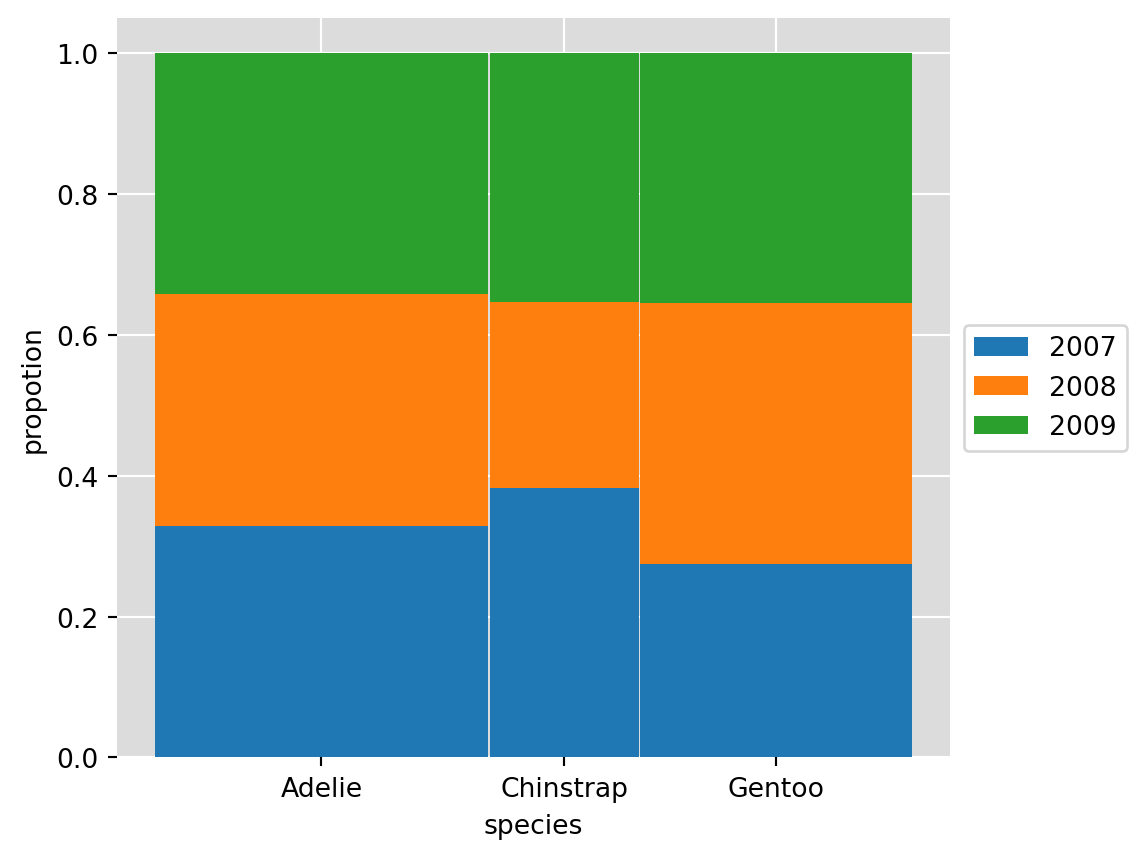
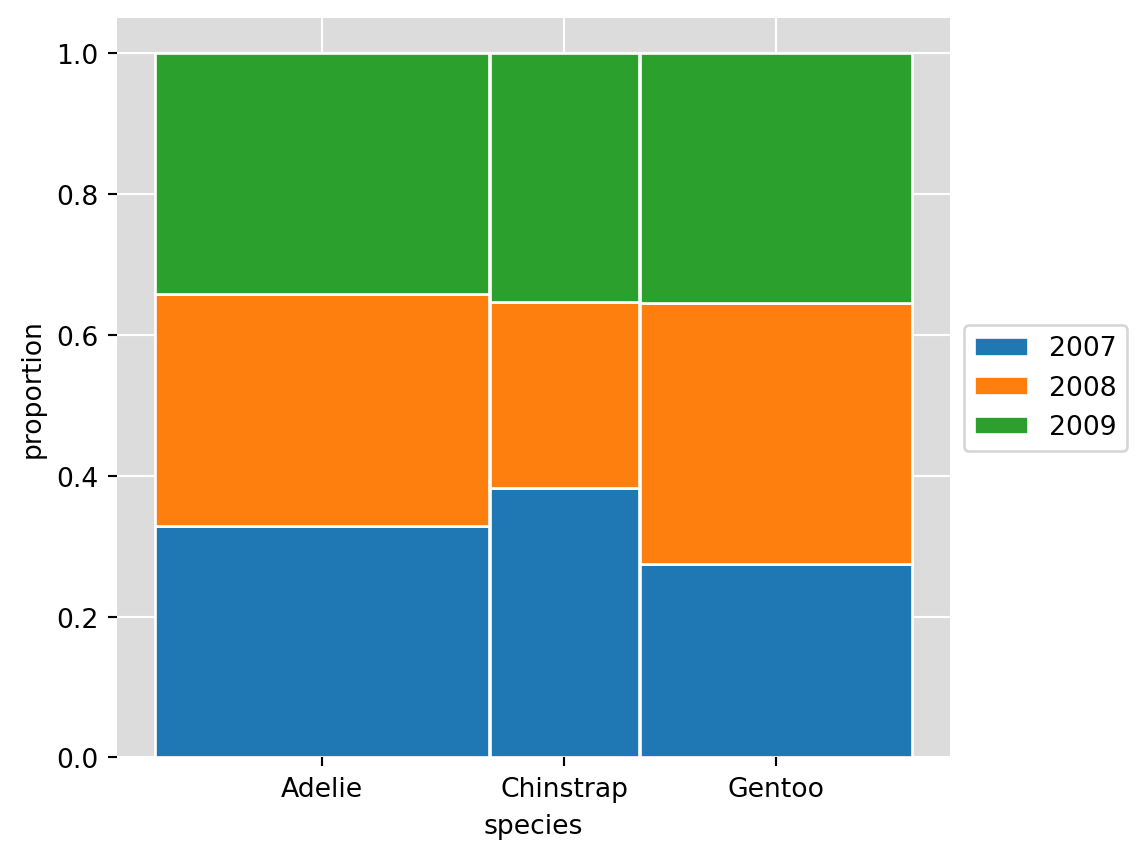
Built site for gh-pages

diff --git a/guide_to_matplotlib.html b/guide_to_matplotlib.html
@@ -163,7 +163,7 @@ code span.wa { color: #60a0b0; font-weight: bold; font-style: italic; } /* Warni
 <div class="cell" data-execution_count="3">
 <div class="sourceCode cell-code" id="cb3"><pre class="sourceCode python code-with-copy"><code class="sourceCode python"><span id="cb3-1"><a href="#cb3-1" aria-hidden="true" tabindex="-1"></a>penguins <span class="op">=</span> load_penguins()</span>
 <span id="cb3-2"><a href="#cb3-2" aria-hidden="true" tabindex="-1"></a>penguins.head()</span></code><button title="Copy to Clipboard" class="code-copy-button"><i class="bi"></i></button></pre></div>
-<div class="cell-output cell-output-display" data-execution_count="23">
+<div class="cell-output cell-output-display" data-execution_count="39">
 
 <div>
 
@@ -245,8 +245,10 @@ code span.wa { color: #60a0b0; font-weight: bold; font-style: italic; } /* Warni
 </section>
 <section id="visualizations" class="level2">
 <h2 class="anchored" data-anchor-id="visualizations">Visualizations</h2>
-<section id="barchart" class="level3">
-<h3 class="anchored" data-anchor-id="barchart">Barchart</h3>
+<section id="categorical-variables" class="level3">
+<h3 class="anchored" data-anchor-id="categorical-variables">Categorical Variables</h3>
+<section id="barchart" class="level4">
+<h4 class="anchored" data-anchor-id="barchart">Barchart</h4>
 <div class="cell" data-execution_count="4">
 <div class="sourceCode cell-code" id="cb4"><pre class="sourceCode python code-with-copy"><code class="sourceCode python"><span id="cb4-1"><a href="#cb4-1" aria-hidden="true" tabindex="-1"></a>count_by_species <span class="op">=</span> penguins.groupby(<span class="st">"species"</span>).size()</span>
 <span id="cb4-2"><a href="#cb4-2" aria-hidden="true" tabindex="-1"></a></span>
@@ -274,8 +276,8 @@ code span.wa { color: #60a0b0; font-weight: bold; font-style: italic; } /* Warni
 </div>
 </div>
 </section>
-<section id="side-by-side-barchart" class="level3">
-<h3 class="anchored" data-anchor-id="side-by-side-barchart">Side-by-Side Barchart</h3>
+<section id="side-by-side-barchart" class="level4">
+<h4 class="anchored" data-anchor-id="side-by-side-barchart">Side-by-Side Barchart</h4>
 <div class="cell" data-execution_count="6">
 <div class="sourceCode cell-code" id="cb6"><pre class="sourceCode python code-with-copy"><code class="sourceCode python"><span id="cb6-1"><a href="#cb6-1" aria-hidden="true" tabindex="-1"></a>count_by_species_and_year <span class="op">=</span> penguins.groupby([<span class="st">"species"</span>, <span class="st">"year"</span>]).size()</span>
 <span id="cb6-2"><a href="#cb6-2" aria-hidden="true" tabindex="-1"></a>count_by_species_and_year <span class="op">=</span> count_by_species_and_year.reset_index()</span>
@@ -304,8 +306,8 @@ code span.wa { color: #60a0b0; font-weight: bold; font-style: italic; } /* Warni
 </div>
 </div>
 </section>
-<section id="stacked-barchart" class="level3">
-<h3 class="anchored" data-anchor-id="stacked-barchart">Stacked Barchart</h3>
+<section id="stacked-barchart" class="level4">
+<h4 class="anchored" data-anchor-id="stacked-barchart">Stacked Barchart</h4>
 <div class="cell" data-execution_count="7">
 <div class="sourceCode cell-code" id="cb7"><pre class="sourceCode python code-with-copy"><code class="sourceCode python"><span id="cb7-1"><a href="#cb7-1" aria-hidden="true" tabindex="-1"></a>width <span class="op">=</span> <span class="fl">0.5</span></span>
 <span id="cb7-2"><a href="#cb7-2" aria-hidden="true" tabindex="-1"></a></span>
@@ -331,8 +333,8 @@ code span.wa { color: #60a0b0; font-weight: bold; font-style: italic; } /* Warni
 </div>
 </div>
 </section>
-<section id="mosaic-plot" class="level3">
-<h3 class="anchored" data-anchor-id="mosaic-plot">Mosaic Plot</h3>
+<section id="mosaic-plot" class="level4">
+<h4 class="anchored" data-anchor-id="mosaic-plot">Mosaic Plot</h4>
 <div class="cell" data-execution_count="8">
 <div class="sourceCode cell-code" id="cb8"><pre class="sourceCode python code-with-copy"><code class="sourceCode python"><span id="cb8-1"><a href="#cb8-1" aria-hidden="true" tabindex="-1"></a>tot_by_grp <span class="op">=</span> count_by_species_and_year.groupby([<span class="st">"species"</span>])[<span class="st">"value"</span>].<span class="bu">sum</span>().reset_index()</span>
 <span id="cb8-2"><a href="#cb8-2" aria-hidden="true" tabindex="-1"></a>tot_by_grp.rename(columns <span class="op">=</span> {<span class="st">"value"</span>:<span class="st">"tot"</span>}, inplace <span class="op">=</span> <span class="va">True</span>)</span>
@@ -342,32 +344,95 @@ code span.wa { color: #60a0b0; font-weight: bold; font-style: italic; } /* Warni
 <span id="cb8-6"><a href="#cb8-6" aria-hidden="true" tabindex="-1"></a>totals <span class="op">=</span> count_by_species_and_year[<span class="st">"tot"</span>].unique()</span>
 <span id="cb8-7"><a href="#cb8-7" aria-hidden="true" tabindex="-1"></a>scaled_totals <span class="op">=</span> totals <span class="op">/</span> totals.<span class="bu">min</span>()</span>
 <span id="cb8-8"><a href="#cb8-8" aria-hidden="true" tabindex="-1"></a></span>
-<span id="cb8-9"><a href="#cb8-9" aria-hidden="true" tabindex="-1"></a>width <span class="op">=</span> scaled_totals <span class="op">/</span> <span class="dv">2</span></span>
+<span id="cb8-9"><a href="#cb8-9" aria-hidden="true" tabindex="-1"></a>width <span class="op">=</span> scaled_totals</span>
 <span id="cb8-10"><a href="#cb8-10" aria-hidden="true" tabindex="-1"></a>fig, ax <span class="op">=</span> plt.subplots()</span>
 <span id="cb8-11"><a href="#cb8-11" aria-hidden="true" tabindex="-1"></a>bottom <span class="op">=</span> np.zeros(<span class="dv">3</span>)</span>
-<span id="cb8-12"><a href="#cb8-12" aria-hidden="true" tabindex="-1"></a></span>
-<span id="cb8-13"><a href="#cb8-13" aria-hidden="true" tabindex="-1"></a>species_loc <span class="op">=</span> [<span class="dv">0</span>, (width[<span class="dv">0</span>]<span class="op">/</span><span class="dv">2</span> <span class="op">+</span> width[<span class="dv">1</span>]<span class="op">/</span><span class="dv">2</span>) <span class="op">+</span> <span class="fl">.005</span>, (width[<span class="dv">0</span>]<span class="op">/</span><span class="dv">2</span> <span class="op">+</span> width[<span class="dv">1</span>] <span class="op">+</span> width[<span class="dv">2</span>]<span class="op">/</span><span class="dv">2</span>) <span class="op">+</span> <span class="fl">.01</span>]</span>
-<span id="cb8-14"><a href="#cb8-14" aria-hidden="true" tabindex="-1"></a></span>
-<span id="cb8-15"><a href="#cb8-15" aria-hidden="true" tabindex="-1"></a><span class="cf">for</span> yr <span class="kw">in</span> count_by_species_and_year[<span class="st">"year"</span>].unique():</span>
-<span id="cb8-16"><a href="#cb8-16" aria-hidden="true" tabindex="-1"></a>    tmp <span class="op">=</span> count_by_species_and_year[count_by_species_and_year[<span class="st">"year"</span>] <span class="op">==</span> yr]</span>
-<span id="cb8-17"><a href="#cb8-17" aria-hidden="true" tabindex="-1"></a>    prop <span class="op">=</span> np.array(tmp[<span class="st">"prop"</span>])</span>
-<span id="cb8-18"><a href="#cb8-18" aria-hidden="true" tabindex="-1"></a>    p <span class="op">=</span> ax.bar(species_loc, prop, width, label<span class="op">=</span>yr, bottom<span class="op">=</span>bottom)</span>
-<span id="cb8-19"><a href="#cb8-19" aria-hidden="true" tabindex="-1"></a>    bottom <span class="op">+=</span> np.array(tmp[<span class="st">"prop"</span>])</span>
-<span id="cb8-20"><a href="#cb8-20" aria-hidden="true" tabindex="-1"></a>    </span>
-<span id="cb8-21"><a href="#cb8-21" aria-hidden="true" tabindex="-1"></a>ax.set_ylabel(<span class="st">'propotion'</span>)</span>
-<span id="cb8-22"><a href="#cb8-22" aria-hidden="true" tabindex="-1"></a>ax.set_xlabel(<span class="st">'species'</span>)</span>
-<span id="cb8-23"><a href="#cb8-23" aria-hidden="true" tabindex="-1"></a></span>
-<span id="cb8-24"><a href="#cb8-24" aria-hidden="true" tabindex="-1"></a>box <span class="op">=</span> ax.get_position()</span>
-<span id="cb8-25"><a href="#cb8-25" aria-hidden="true" tabindex="-1"></a>ax.set_position([box.x0, box.y0, box.width <span class="op">*</span> <span class="fl">0.8</span>, box.height])</span>
-<span id="cb8-26"><a href="#cb8-26" aria-hidden="true" tabindex="-1"></a></span>
-<span id="cb8-27"><a href="#cb8-27" aria-hidden="true" tabindex="-1"></a>ax.set_xticks(ticks <span class="op">=</span> species_loc, labels <span class="op">=</span> count_by_species_and_year[<span class="st">"species"</span>].unique())</span>
-<span id="cb8-28"><a href="#cb8-28" aria-hidden="true" tabindex="-1"></a>ax.legend(ncol <span class="op">=</span> <span class="dv">1</span>, loc <span class="op">=</span> <span class="st">"center left"</span>, bbox_to_anchor<span class="op">=</span>(<span class="dv">1</span>, <span class="fl">0.5</span>))</span>
-<span id="cb8-29"><a href="#cb8-29" aria-hidden="true" tabindex="-1"></a></span>
-<span id="cb8-30"><a href="#cb8-30" aria-hidden="true" tabindex="-1"></a>ggplot2_defaults()</span></code><button title="Copy to Clipboard" class="code-copy-button"><i class="bi"></i></button></pre></div>
+<span id="cb8-12"><a href="#cb8-12" aria-hidden="true" tabindex="-1"></a>species_loc <span class="op">=</span> [<span class="dv">0</span>, (width[<span class="dv">0</span>]<span class="op">/</span><span class="dv">2</span> <span class="op">+</span> width[<span class="dv">1</span>]<span class="op">/</span><span class="dv">2</span>) <span class="op">+</span> <span class="fl">.005</span>, (width[<span class="dv">0</span>]<span class="op">/</span><span class="dv">2</span> <span class="op">+</span> width[<span class="dv">1</span>] <span class="op">+</span> <span class="fl">.005</span> <span class="op">+</span> width[<span class="dv">2</span>]<span class="op">/</span><span class="dv">2</span>) <span class="op">+</span> <span class="fl">.005</span>]</span>
+<span id="cb8-13"><a href="#cb8-13" aria-hidden="true" tabindex="-1"></a></span>
+<span id="cb8-14"><a href="#cb8-14" aria-hidden="true" tabindex="-1"></a><span class="cf">for</span> yr <span class="kw">in</span> count_by_species_and_year[<span class="st">"year"</span>].unique():</span>
+<span id="cb8-15"><a href="#cb8-15" aria-hidden="true" tabindex="-1"></a>    tmp <span class="op">=</span> count_by_species_and_year[count_by_species_and_year[<span class="st">"year"</span>] <span class="op">==</span> yr]</span>
+<span id="cb8-16"><a href="#cb8-16" aria-hidden="true" tabindex="-1"></a>    prop <span class="op">=</span> np.array(tmp[<span class="st">"prop"</span>])</span>
+<span id="cb8-17"><a href="#cb8-17" aria-hidden="true" tabindex="-1"></a>    p <span class="op">=</span> ax.bar(species_loc, prop, width, label<span class="op">=</span>yr, bottom<span class="op">=</span>bottom, edgecolor <span class="op">=</span> <span class="st">"white"</span>)</span>
+<span id="cb8-18"><a href="#cb8-18" aria-hidden="true" tabindex="-1"></a>    bottom <span class="op">+=</span> np.array(tmp[<span class="st">"prop"</span>])</span>
+<span id="cb8-19"><a href="#cb8-19" aria-hidden="true" tabindex="-1"></a>    </span>
+<span id="cb8-20"><a href="#cb8-20" aria-hidden="true" tabindex="-1"></a>ax.set_ylabel(<span class="st">'proportion'</span>)</span>
+<span id="cb8-21"><a href="#cb8-21" aria-hidden="true" tabindex="-1"></a>ax.set_xlabel(<span class="st">'species'</span>)</span>
+<span id="cb8-22"><a href="#cb8-22" aria-hidden="true" tabindex="-1"></a></span>
+<span id="cb8-23"><a href="#cb8-23" aria-hidden="true" tabindex="-1"></a>box <span class="op">=</span> ax.get_position()</span>
+<span id="cb8-24"><a href="#cb8-24" aria-hidden="true" tabindex="-1"></a>ax.set_position([box.x0, box.y0, box.width <span class="op">*</span> <span class="fl">0.8</span>, box.height])</span>
+<span id="cb8-25"><a href="#cb8-25" aria-hidden="true" tabindex="-1"></a></span>
+<span id="cb8-26"><a href="#cb8-26" aria-hidden="true" tabindex="-1"></a>ax.set_xticks(ticks <span class="op">=</span> species_loc, labels <span class="op">=</span> count_by_species_and_year[<span class="st">"species"</span>].unique())</span>
+<span id="cb8-27"><a href="#cb8-27" aria-hidden="true" tabindex="-1"></a>ax.legend(ncol <span class="op">=</span> <span class="dv">1</span>, loc <span class="op">=</span> <span class="st">"center left"</span>, bbox_to_anchor<span class="op">=</span>(<span class="dv">1</span>, <span class="fl">0.5</span>))</span>
+<span id="cb8-28"><a href="#cb8-28" aria-hidden="true" tabindex="-1"></a></span>
+<span id="cb8-29"><a href="#cb8-29" aria-hidden="true" tabindex="-1"></a>ggplot2_defaults()</span></code><button title="Copy to Clipboard" class="code-copy-button"><i class="bi"></i></button></pre></div>
 <div class="cell-output cell-output-display">
 <p><img src="guide_to_matplotlib_files/figure-html/cell-9-output-1.png" width="573" height="429"></p>
 </div>
 </div>
+</section>
+<section id="piecharts" class="level4">
+<h4 class="anchored" data-anchor-id="piecharts">Piecharts</h4>
+<div class="cell" data-execution_count="9">
+<div class="sourceCode cell-code" id="cb9"><pre class="sourceCode python code-with-copy"><code class="sourceCode python"><span id="cb9-1"><a href="#cb9-1" aria-hidden="true" tabindex="-1"></a>fig, ax <span class="op">=</span> plt.subplots()</span>
+<span id="cb9-2"><a href="#cb9-2" aria-hidden="true" tabindex="-1"></a>ax.pie(x <span class="op">=</span> count_by_species.values, labels <span class="op">=</span> count_by_species.index, startangle <span class="op">=</span> <span class="dv">90</span>)<span class="op">;</span></span></code><button title="Copy to Clipboard" class="code-copy-button"><i class="bi"></i></button></pre></div>
+<div class="cell-output cell-output-display">
+<p><img src="guide_to_matplotlib_files/figure-html/cell-10-output-1.png" width="405" height="389"></p>
+</div>
+</div>
+</section>
+</section>
+<section id="numerical-variables" class="level3">
+<h3 class="anchored" data-anchor-id="numerical-variables">Numerical Variables</h3>
+<section id="histograms" class="level4">
+<h4 class="anchored" data-anchor-id="histograms">Histograms</h4>
+<div class="cell" data-execution_count="10">
+<div class="sourceCode cell-code" id="cb10"><pre class="sourceCode python code-with-copy"><code class="sourceCode python"><span id="cb10-1"><a href="#cb10-1" aria-hidden="true" tabindex="-1"></a>fig, ax <span class="op">=</span> plt.subplots()</span>
+<span id="cb10-2"><a href="#cb10-2" aria-hidden="true" tabindex="-1"></a>ax.hist(penguins[<span class="st">"bill_length_mm"</span>], edgecolor <span class="op">=</span> <span class="st">"white"</span>, color <span class="op">=</span> <span class="st">"#cc4778"</span>)<span class="op">;</span></span>
+<span id="cb10-3"><a href="#cb10-3" aria-hidden="true" tabindex="-1"></a></span>
+<span id="cb10-4"><a href="#cb10-4" aria-hidden="true" tabindex="-1"></a>ax.set_ylabel(<span class="st">'count'</span>)</span>
+<span id="cb10-5"><a href="#cb10-5" aria-hidden="true" tabindex="-1"></a>ax.set_xlabel(<span class="st">'bill length (mm)'</span>)</span>
+<span id="cb10-6"><a href="#cb10-6" aria-hidden="true" tabindex="-1"></a></span>
+<span id="cb10-7"><a href="#cb10-7" aria-hidden="true" tabindex="-1"></a>ggplot2_defaults()</span></code><button title="Copy to Clipboard" class="code-copy-button"><i class="bi"></i></button></pre></div>
+<div class="cell-output cell-output-display">
+<p><img src="guide_to_matplotlib_files/figure-html/cell-11-output-1.png" width="585" height="429"></p>
+</div>
+</div>
+</section>
+<section id="boxplots" class="level4">
+<h4 class="anchored" data-anchor-id="boxplots">Boxplots</h4>
+<div class="cell" data-execution_count="11">
+<div class="sourceCode cell-code" id="cb11"><pre class="sourceCode python code-with-copy"><code class="sourceCode python"><span id="cb11-1"><a href="#cb11-1" aria-hidden="true" tabindex="-1"></a>fig, ax <span class="op">=</span> plt.subplots()</span>
+<span id="cb11-2"><a href="#cb11-2" aria-hidden="true" tabindex="-1"></a></span>
+<span id="cb11-3"><a href="#cb11-3" aria-hidden="true" tabindex="-1"></a>ax.boxplot(penguins[<span class="st">"bill_length_mm"</span>].dropna(),</span>
+<span id="cb11-4"><a href="#cb11-4" aria-hidden="true" tabindex="-1"></a>    patch_artist <span class="op">=</span> <span class="va">True</span>,</span>
+<span id="cb11-5"><a href="#cb11-5" aria-hidden="true" tabindex="-1"></a>    medianprops <span class="op">=</span> {<span class="st">"color"</span>: <span class="st">"black"</span>},</span>
+<span id="cb11-6"><a href="#cb11-6" aria-hidden="true" tabindex="-1"></a>    boxprops <span class="op">=</span> {<span class="st">"facecolor"</span>: <span class="st">"white"</span>})</span>
+<span id="cb11-7"><a href="#cb11-7" aria-hidden="true" tabindex="-1"></a>plt.xticks([])<span class="op">;</span></span>
+<span id="cb11-8"><a href="#cb11-8" aria-hidden="true" tabindex="-1"></a>ggplot2_defaults()</span></code><button title="Copy to Clipboard" class="code-copy-button"><i class="bi"></i></button></pre></div>
+<div class="cell-output cell-output-display">
+<p><img src="guide_to_matplotlib_files/figure-html/cell-12-output-1.png" width="566" height="389"></p>
+</div>
+</div>
+</section>
+<section id="boxplot-with-points" class="level4">
+<h4 class="anchored" data-anchor-id="boxplot-with-points">Boxplot with points</h4>
+<div class="cell" data-execution_count="12">
+<div class="sourceCode cell-code" id="cb12"><pre class="sourceCode python code-with-copy"><code class="sourceCode python"><span id="cb12-1"><a href="#cb12-1" aria-hidden="true" tabindex="-1"></a>fig, ax <span class="op">=</span> plt.subplots()</span>
+<span id="cb12-2"><a href="#cb12-2" aria-hidden="true" tabindex="-1"></a>n <span class="op">=</span> <span class="bu">len</span>(penguins[<span class="st">"bill_length_mm"</span>].dropna())</span>
+<span id="cb12-3"><a href="#cb12-3" aria-hidden="true" tabindex="-1"></a></span>
+<span id="cb12-4"><a href="#cb12-4" aria-hidden="true" tabindex="-1"></a>ax.boxplot(penguins[<span class="st">"bill_length_mm"</span>].dropna(),</span>
+<span id="cb12-5"><a href="#cb12-5" aria-hidden="true" tabindex="-1"></a>    patch_artist <span class="op">=</span> <span class="va">True</span>,</span>
+<span id="cb12-6"><a href="#cb12-6" aria-hidden="true" tabindex="-1"></a>    medianprops <span class="op">=</span> {<span class="st">"color"</span>: <span class="st">"black"</span>},</span>
+<span id="cb12-7"><a href="#cb12-7" aria-hidden="true" tabindex="-1"></a>    boxprops <span class="op">=</span> {<span class="st">"fill"</span>: <span class="va">None</span>})</span>
+<span id="cb12-8"><a href="#cb12-8" aria-hidden="true" tabindex="-1"></a>ax.scatter(y <span class="op">=</span> penguins[<span class="st">"bill_length_mm"</span>].dropna(), x <span class="op">=</span> [<span class="dv">1</span>] <span class="op">*</span> n <span class="op">+</span> np.random.normal(size <span class="op">=</span> n, scale <span class="op">=</span> <span class="dv">1</span><span class="op">/</span><span class="dv">100</span>), color <span class="op">=</span> <span class="st">"black"</span>, alpha <span class="op">=</span> <span class="dv">1</span><span class="op">/</span><span class="dv">4</span>)</span>
+<span id="cb12-9"><a href="#cb12-9" aria-hidden="true" tabindex="-1"></a></span>
+<span id="cb12-10"><a href="#cb12-10" aria-hidden="true" tabindex="-1"></a>plt.xticks([])<span class="op">;</span></span>
+<span id="cb12-11"><a href="#cb12-11" aria-hidden="true" tabindex="-1"></a>ggplot2_defaults()</span></code><button title="Copy to Clipboard" class="code-copy-button"><i class="bi"></i></button></pre></div>
+<div class="cell-output cell-output-display">
+<p><img src="guide_to_matplotlib_files/figure-html/cell-13-output-1.png" width="566" height="389"></p>
+</div>
+</div>
+</section>
 </section>
 </section>
 

diff --git a/index.html b/index.html
@@ -163,7 +163,7 @@ code span.wa { color: #60a0b0; font-weight: bold; font-style: italic; } /* Warni
 <div class="cell" data-execution_count="3">
 <div class="sourceCode cell-code" id="cb3"><pre class="sourceCode python code-with-copy"><code class="sourceCode python"><span id="cb3-1"><a href="#cb3-1" aria-hidden="true" tabindex="-1"></a>penguins <span class="op">=</span> load_penguins()</span>
 <span id="cb3-2"><a href="#cb3-2" aria-hidden="true" tabindex="-1"></a>penguins.head()</span></code><button title="Copy to Clipboard" class="code-copy-button"><i class="bi"></i></button></pre></div>
-<div class="cell-output cell-output-display" data-execution_count="23">
+<div class="cell-output cell-output-display" data-execution_count="39">
 
 <div>
 
@@ -245,8 +245,10 @@ code span.wa { color: #60a0b0; font-weight: bold; font-style: italic; } /* Warni
 </section>
 <section id="visualizations" class="level2">
 <h2 class="anchored" data-anchor-id="visualizations">Visualizations</h2>
-<section id="barchart" class="level3">
-<h3 class="anchored" data-anchor-id="barchart">Barchart</h3>
+<section id="categorical-variables" class="level3">
+<h3 class="anchored" data-anchor-id="categorical-variables">Categorical Variables</h3>
+<section id="barchart" class="level4">
+<h4 class="anchored" data-anchor-id="barchart">Barchart</h4>
 <div class="cell" data-execution_count="4">
 <div class="sourceCode cell-code" id="cb4"><pre class="sourceCode python code-with-copy"><code class="sourceCode python"><span id="cb4-1"><a href="#cb4-1" aria-hidden="true" tabindex="-1"></a>count_by_species <span class="op">=</span> penguins.groupby(<span class="st">"species"</span>).size()</span>
 <span id="cb4-2"><a href="#cb4-2" aria-hidden="true" tabindex="-1"></a></span>
@@ -274,8 +276,8 @@ code span.wa { color: #60a0b0; font-weight: bold; font-style: italic; } /* Warni
 </div>
 </div>
 </section>
-<section id="side-by-side-barchart" class="level3">
-<h3 class="anchored" data-anchor-id="side-by-side-barchart">Side-by-Side Barchart</h3>
+<section id="side-by-side-barchart" class="level4">
+<h4 class="anchored" data-anchor-id="side-by-side-barchart">Side-by-Side Barchart</h4>
 <div class="cell" data-execution_count="6">
 <div class="sourceCode cell-code" id="cb6"><pre class="sourceCode python code-with-copy"><code class="sourceCode python"><span id="cb6-1"><a href="#cb6-1" aria-hidden="true" tabindex="-1"></a>count_by_species_and_year <span class="op">=</span> penguins.groupby([<span class="st">"species"</span>, <span class="st">"year"</span>]).size()</span>
 <span id="cb6-2"><a href="#cb6-2" aria-hidden="true" tabindex="-1"></a>count_by_species_and_year <span class="op">=</span> count_by_species_and_year.reset_index()</span>
@@ -304,8 +306,8 @@ code span.wa { color: #60a0b0; font-weight: bold; font-style: italic; } /* Warni
 </div>
 </div>
 </section>
-<section id="stacked-barchart" class="level3">
-<h3 class="anchored" data-anchor-id="stacked-barchart">Stacked Barchart</h3>
+<section id="stacked-barchart" class="level4">
+<h4 class="anchored" data-anchor-id="stacked-barchart">Stacked Barchart</h4>
 <div class="cell" data-execution_count="7">
 <div class="sourceCode cell-code" id="cb7"><pre class="sourceCode python code-with-copy"><code class="sourceCode python"><span id="cb7-1"><a href="#cb7-1" aria-hidden="true" tabindex="-1"></a>width <span class="op">=</span> <span class="fl">0.5</span></span>
 <span id="cb7-2"><a href="#cb7-2" aria-hidden="true" tabindex="-1"></a></span>
@@ -331,8 +333,8 @@ code span.wa { color: #60a0b0; font-weight: bold; font-style: italic; } /* Warni
 </div>
 </div>
 </section>
-<section id="mosaic-plot" class="level3">
-<h3 class="anchored" data-anchor-id="mosaic-plot">Mosaic Plot</h3>
+<section id="mosaic-plot" class="level4">
+<h4 class="anchored" data-anchor-id="mosaic-plot">Mosaic Plot</h4>
 <div class="cell" data-execution_count="8">
 <div class="sourceCode cell-code" id="cb8"><pre class="sourceCode python code-with-copy"><code class="sourceCode python"><span id="cb8-1"><a href="#cb8-1" aria-hidden="true" tabindex="-1"></a>tot_by_grp <span class="op">=</span> count_by_species_and_year.groupby([<span class="st">"species"</span>])[<span class="st">"value"</span>].<span class="bu">sum</span>().reset_index()</span>
 <span id="cb8-2"><a href="#cb8-2" aria-hidden="true" tabindex="-1"></a>tot_by_grp.rename(columns <span class="op">=</span> {<span class="st">"value"</span>:<span class="st">"tot"</span>}, inplace <span class="op">=</span> <span class="va">True</span>)</span>
@@ -342,32 +344,95 @@ code span.wa { color: #60a0b0; font-weight: bold; font-style: italic; } /* Warni
 <span id="cb8-6"><a href="#cb8-6" aria-hidden="true" tabindex="-1"></a>totals <span class="op">=</span> count_by_species_and_year[<span class="st">"tot"</span>].unique()</span>
 <span id="cb8-7"><a href="#cb8-7" aria-hidden="true" tabindex="-1"></a>scaled_totals <span class="op">=</span> totals <span class="op">/</span> totals.<span class="bu">min</span>()</span>
 <span id="cb8-8"><a href="#cb8-8" aria-hidden="true" tabindex="-1"></a></span>
-<span id="cb8-9"><a href="#cb8-9" aria-hidden="true" tabindex="-1"></a>width <span class="op">=</span> scaled_totals <span class="op">/</span> <span class="dv">2</span></span>
+<span id="cb8-9"><a href="#cb8-9" aria-hidden="true" tabindex="-1"></a>width <span class="op">=</span> scaled_totals</span>
 <span id="cb8-10"><a href="#cb8-10" aria-hidden="true" tabindex="-1"></a>fig, ax <span class="op">=</span> plt.subplots()</span>
 <span id="cb8-11"><a href="#cb8-11" aria-hidden="true" tabindex="-1"></a>bottom <span class="op">=</span> np.zeros(<span class="dv">3</span>)</span>
-<span id="cb8-12"><a href="#cb8-12" aria-hidden="true" tabindex="-1"></a></span>
-<span id="cb8-13"><a href="#cb8-13" aria-hidden="true" tabindex="-1"></a>species_loc <span class="op">=</span> [<span class="dv">0</span>, (width[<span class="dv">0</span>]<span class="op">/</span><span class="dv">2</span> <span class="op">+</span> width[<span class="dv">1</span>]<span class="op">/</span><span class="dv">2</span>) <span class="op">+</span> <span class="fl">.005</span>, (width[<span class="dv">0</span>]<span class="op">/</span><span class="dv">2</span> <span class="op">+</span> width[<span class="dv">1</span>] <span class="op">+</span> width[<span class="dv">2</span>]<span class="op">/</span><span class="dv">2</span>) <span class="op">+</span> <span class="fl">.01</span>]</span>
-<span id="cb8-14"><a href="#cb8-14" aria-hidden="true" tabindex="-1"></a></span>
-<span id="cb8-15"><a href="#cb8-15" aria-hidden="true" tabindex="-1"></a><span class="cf">for</span> yr <span class="kw">in</span> count_by_species_and_year[<span class="st">"year"</span>].unique():</span>
-<span id="cb8-16"><a href="#cb8-16" aria-hidden="true" tabindex="-1"></a>    tmp <span class="op">=</span> count_by_species_and_year[count_by_species_and_year[<span class="st">"year"</span>] <span class="op">==</span> yr]</span>
-<span id="cb8-17"><a href="#cb8-17" aria-hidden="true" tabindex="-1"></a>    prop <span class="op">=</span> np.array(tmp[<span class="st">"prop"</span>])</span>
-<span id="cb8-18"><a href="#cb8-18" aria-hidden="true" tabindex="-1"></a>    p <span class="op">=</span> ax.bar(species_loc, prop, width, label<span class="op">=</span>yr, bottom<span class="op">=</span>bottom)</span>
-<span id="cb8-19"><a href="#cb8-19" aria-hidden="true" tabindex="-1"></a>    bottom <span class="op">+=</span> np.array(tmp[<span class="st">"prop"</span>])</span>
-<span id="cb8-20"><a href="#cb8-20" aria-hidden="true" tabindex="-1"></a>    </span>
-<span id="cb8-21"><a href="#cb8-21" aria-hidden="true" tabindex="-1"></a>ax.set_ylabel(<span class="st">'propotion'</span>)</span>
-<span id="cb8-22"><a href="#cb8-22" aria-hidden="true" tabindex="-1"></a>ax.set_xlabel(<span class="st">'species'</span>)</span>
-<span id="cb8-23"><a href="#cb8-23" aria-hidden="true" tabindex="-1"></a></span>
-<span id="cb8-24"><a href="#cb8-24" aria-hidden="true" tabindex="-1"></a>box <span class="op">=</span> ax.get_position()</span>
-<span id="cb8-25"><a href="#cb8-25" aria-hidden="true" tabindex="-1"></a>ax.set_position([box.x0, box.y0, box.width <span class="op">*</span> <span class="fl">0.8</span>, box.height])</span>
-<span id="cb8-26"><a href="#cb8-26" aria-hidden="true" tabindex="-1"></a></span>
-<span id="cb8-27"><a href="#cb8-27" aria-hidden="true" tabindex="-1"></a>ax.set_xticks(ticks <span class="op">=</span> species_loc, labels <span class="op">=</span> count_by_species_and_year[<span class="st">"species"</span>].unique())</span>
-<span id="cb8-28"><a href="#cb8-28" aria-hidden="true" tabindex="-1"></a>ax.legend(ncol <span class="op">=</span> <span class="dv">1</span>, loc <span class="op">=</span> <span class="st">"center left"</span>, bbox_to_anchor<span class="op">=</span>(<span class="dv">1</span>, <span class="fl">0.5</span>))</span>
-<span id="cb8-29"><a href="#cb8-29" aria-hidden="true" tabindex="-1"></a></span>
-<span id="cb8-30"><a href="#cb8-30" aria-hidden="true" tabindex="-1"></a>ggplot2_defaults()</span></code><button title="Copy to Clipboard" class="code-copy-button"><i class="bi"></i></button></pre></div>
+<span id="cb8-12"><a href="#cb8-12" aria-hidden="true" tabindex="-1"></a>species_loc <span class="op">=</span> [<span class="dv">0</span>, (width[<span class="dv">0</span>]<span class="op">/</span><span class="dv">2</span> <span class="op">+</span> width[<span class="dv">1</span>]<span class="op">/</span><span class="dv">2</span>) <span class="op">+</span> <span class="fl">.005</span>, (width[<span class="dv">0</span>]<span class="op">/</span><span class="dv">2</span> <span class="op">+</span> width[<span class="dv">1</span>] <span class="op">+</span> <span class="fl">.005</span> <span class="op">+</span> width[<span class="dv">2</span>]<span class="op">/</span><span class="dv">2</span>) <span class="op">+</span> <span class="fl">.005</span>]</span>
+<span id="cb8-13"><a href="#cb8-13" aria-hidden="true" tabindex="-1"></a></span>
+<span id="cb8-14"><a href="#cb8-14" aria-hidden="true" tabindex="-1"></a><span class="cf">for</span> yr <span class="kw">in</span> count_by_species_and_year[<span class="st">"year"</span>].unique():</span>
+<span id="cb8-15"><a href="#cb8-15" aria-hidden="true" tabindex="-1"></a>    tmp <span class="op">=</span> count_by_species_and_year[count_by_species_and_year[<span class="st">"year"</span>] <span class="op">==</span> yr]</span>
+<span id="cb8-16"><a href="#cb8-16" aria-hidden="true" tabindex="-1"></a>    prop <span class="op">=</span> np.array(tmp[<span class="st">"prop"</span>])</span>
+<span id="cb8-17"><a href="#cb8-17" aria-hidden="true" tabindex="-1"></a>    p <span class="op">=</span> ax.bar(species_loc, prop, width, label<span class="op">=</span>yr, bottom<span class="op">=</span>bottom, edgecolor <span class="op">=</span> <span class="st">"white"</span>)</span>
+<span id="cb8-18"><a href="#cb8-18" aria-hidden="true" tabindex="-1"></a>    bottom <span class="op">+=</span> np.array(tmp[<span class="st">"prop"</span>])</span>
+<span id="cb8-19"><a href="#cb8-19" aria-hidden="true" tabindex="-1"></a>    </span>
+<span id="cb8-20"><a href="#cb8-20" aria-hidden="true" tabindex="-1"></a>ax.set_ylabel(<span class="st">'proportion'</span>)</span>
+<span id="cb8-21"><a href="#cb8-21" aria-hidden="true" tabindex="-1"></a>ax.set_xlabel(<span class="st">'species'</span>)</span>
+<span id="cb8-22"><a href="#cb8-22" aria-hidden="true" tabindex="-1"></a></span>
+<span id="cb8-23"><a href="#cb8-23" aria-hidden="true" tabindex="-1"></a>box <span class="op">=</span> ax.get_position()</span>
+<span id="cb8-24"><a href="#cb8-24" aria-hidden="true" tabindex="-1"></a>ax.set_position([box.x0, box.y0, box.width <span class="op">*</span> <span class="fl">0.8</span>, box.height])</span>
+<span id="cb8-25"><a href="#cb8-25" aria-hidden="true" tabindex="-1"></a></span>
+<span id="cb8-26"><a href="#cb8-26" aria-hidden="true" tabindex="-1"></a>ax.set_xticks(ticks <span class="op">=</span> species_loc, labels <span class="op">=</span> count_by_species_and_year[<span class="st">"species"</span>].unique())</span>
+<span id="cb8-27"><a href="#cb8-27" aria-hidden="true" tabindex="-1"></a>ax.legend(ncol <span class="op">=</span> <span class="dv">1</span>, loc <span class="op">=</span> <span class="st">"center left"</span>, bbox_to_anchor<span class="op">=</span>(<span class="dv">1</span>, <span class="fl">0.5</span>))</span>
+<span id="cb8-28"><a href="#cb8-28" aria-hidden="true" tabindex="-1"></a></span>
+<span id="cb8-29"><a href="#cb8-29" aria-hidden="true" tabindex="-1"></a>ggplot2_defaults()</span></code><button title="Copy to Clipboard" class="code-copy-button"><i class="bi"></i></button></pre></div>
 <div class="cell-output cell-output-display">
 <p><img src="guide_to_matplotlib_files/figure-html/cell-9-output-1.png" width="573" height="429"></p>
 </div>
 </div>
+</section>
+<section id="piecharts" class="level4">
+<h4 class="anchored" data-anchor-id="piecharts">Piecharts</h4>
+<div class="cell" data-execution_count="9">
+<div class="sourceCode cell-code" id="cb9"><pre class="sourceCode python code-with-copy"><code class="sourceCode python"><span id="cb9-1"><a href="#cb9-1" aria-hidden="true" tabindex="-1"></a>fig, ax <span class="op">=</span> plt.subplots()</span>
+<span id="cb9-2"><a href="#cb9-2" aria-hidden="true" tabindex="-1"></a>ax.pie(x <span class="op">=</span> count_by_species.values, labels <span class="op">=</span> count_by_species.index, startangle <span class="op">=</span> <span class="dv">90</span>)<span class="op">;</span></span></code><button title="Copy to Clipboard" class="code-copy-button"><i class="bi"></i></button></pre></div>
+<div class="cell-output cell-output-display">
+<p><img src="guide_to_matplotlib_files/figure-html/cell-10-output-1.png" width="405" height="389"></p>
+</div>
+</div>
+</section>
+</section>
+<section id="numerical-variables" class="level3">
+<h3 class="anchored" data-anchor-id="numerical-variables">Numerical Variables</h3>
+<section id="histograms" class="level4">
+<h4 class="anchored" data-anchor-id="histograms">Histograms</h4>
+<div class="cell" data-execution_count="10">
+<div class="sourceCode cell-code" id="cb10"><pre class="sourceCode python code-with-copy"><code class="sourceCode python"><span id="cb10-1"><a href="#cb10-1" aria-hidden="true" tabindex="-1"></a>fig, ax <span class="op">=</span> plt.subplots()</span>
+<span id="cb10-2"><a href="#cb10-2" aria-hidden="true" tabindex="-1"></a>ax.hist(penguins[<span class="st">"bill_length_mm"</span>], edgecolor <span class="op">=</span> <span class="st">"white"</span>, color <span class="op">=</span> <span class="st">"#cc4778"</span>)<span class="op">;</span></span>
+<span id="cb10-3"><a href="#cb10-3" aria-hidden="true" tabindex="-1"></a></span>
+<span id="cb10-4"><a href="#cb10-4" aria-hidden="true" tabindex="-1"></a>ax.set_ylabel(<span class="st">'count'</span>)</span>
+<span id="cb10-5"><a href="#cb10-5" aria-hidden="true" tabindex="-1"></a>ax.set_xlabel(<span class="st">'bill length (mm)'</span>)</span>
+<span id="cb10-6"><a href="#cb10-6" aria-hidden="true" tabindex="-1"></a></span>
+<span id="cb10-7"><a href="#cb10-7" aria-hidden="true" tabindex="-1"></a>ggplot2_defaults()</span></code><button title="Copy to Clipboard" class="code-copy-button"><i class="bi"></i></button></pre></div>
+<div class="cell-output cell-output-display">
+<p><img src="guide_to_matplotlib_files/figure-html/cell-11-output-1.png" width="585" height="429"></p>
+</div>
+</div>
+</section>
+<section id="boxplots" class="level4">
+<h4 class="anchored" data-anchor-id="boxplots">Boxplots</h4>
+<div class="cell" data-execution_count="11">
+<div class="sourceCode cell-code" id="cb11"><pre class="sourceCode python code-with-copy"><code class="sourceCode python"><span id="cb11-1"><a href="#cb11-1" aria-hidden="true" tabindex="-1"></a>fig, ax <span class="op">=</span> plt.subplots()</span>
+<span id="cb11-2"><a href="#cb11-2" aria-hidden="true" tabindex="-1"></a></span>
+<span id="cb11-3"><a href="#cb11-3" aria-hidden="true" tabindex="-1"></a>ax.boxplot(penguins[<span class="st">"bill_length_mm"</span>].dropna(),</span>
+<span id="cb11-4"><a href="#cb11-4" aria-hidden="true" tabindex="-1"></a>    patch_artist <span class="op">=</span> <span class="va">True</span>,</span>
+<span id="cb11-5"><a href="#cb11-5" aria-hidden="true" tabindex="-1"></a>    medianprops <span class="op">=</span> {<span class="st">"color"</span>: <span class="st">"black"</span>},</span>
+<span id="cb11-6"><a href="#cb11-6" aria-hidden="true" tabindex="-1"></a>    boxprops <span class="op">=</span> {<span class="st">"facecolor"</span>: <span class="st">"white"</span>})</span>
+<span id="cb11-7"><a href="#cb11-7" aria-hidden="true" tabindex="-1"></a>plt.xticks([])<span class="op">;</span></span>
+<span id="cb11-8"><a href="#cb11-8" aria-hidden="true" tabindex="-1"></a>ggplot2_defaults()</span></code><button title="Copy to Clipboard" class="code-copy-button"><i class="bi"></i></button></pre></div>
+<div class="cell-output cell-output-display">
+<p><img src="guide_to_matplotlib_files/figure-html/cell-12-output-1.png" width="566" height="389"></p>
+</div>
+</div>
+</section>
+<section id="boxplot-with-points" class="level4">
+<h4 class="anchored" data-anchor-id="boxplot-with-points">Boxplot with points</h4>
+<div class="cell" data-execution_count="12">
+<div class="sourceCode cell-code" id="cb12"><pre class="sourceCode python code-with-copy"><code class="sourceCode python"><span id="cb12-1"><a href="#cb12-1" aria-hidden="true" tabindex="-1"></a>fig, ax <span class="op">=</span> plt.subplots()</span>
+<span id="cb12-2"><a href="#cb12-2" aria-hidden="true" tabindex="-1"></a>n <span class="op">=</span> <span class="bu">len</span>(penguins[<span class="st">"bill_length_mm"</span>].dropna())</span>
+<span id="cb12-3"><a href="#cb12-3" aria-hidden="true" tabindex="-1"></a></span>
+<span id="cb12-4"><a href="#cb12-4" aria-hidden="true" tabindex="-1"></a>ax.boxplot(penguins[<span class="st">"bill_length_mm"</span>].dropna(),</span>
+<span id="cb12-5"><a href="#cb12-5" aria-hidden="true" tabindex="-1"></a>    patch_artist <span class="op">=</span> <span class="va">True</span>,</span>
+<span id="cb12-6"><a href="#cb12-6" aria-hidden="true" tabindex="-1"></a>    medianprops <span class="op">=</span> {<span class="st">"color"</span>: <span class="st">"black"</span>},</span>
+<span id="cb12-7"><a href="#cb12-7" aria-hidden="true" tabindex="-1"></a>    boxprops <span class="op">=</span> {<span class="st">"fill"</span>: <span class="va">None</span>})</span>
+<span id="cb12-8"><a href="#cb12-8" aria-hidden="true" tabindex="-1"></a>ax.scatter(y <span class="op">=</span> penguins[<span class="st">"bill_length_mm"</span>].dropna(), x <span class="op">=</span> [<span class="dv">1</span>] <span class="op">*</span> n <span class="op">+</span> np.random.normal(size <span class="op">=</span> n, scale <span class="op">=</span> <span class="dv">1</span><span class="op">/</span><span class="dv">100</span>), color <span class="op">=</span> <span class="st">"black"</span>, alpha <span class="op">=</span> <span class="dv">1</span><span class="op">/</span><span class="dv">4</span>)</span>
+<span id="cb12-9"><a href="#cb12-9" aria-hidden="true" tabindex="-1"></a></span>
+<span id="cb12-10"><a href="#cb12-10" aria-hidden="true" tabindex="-1"></a>plt.xticks([])<span class="op">;</span></span>
+<span id="cb12-11"><a href="#cb12-11" aria-hidden="true" tabindex="-1"></a>ggplot2_defaults()</span></code><button title="Copy to Clipboard" class="code-copy-button"><i class="bi"></i></button></pre></div>
+<div class="cell-output cell-output-display">
+<p><img src="guide_to_matplotlib_files/figure-html/cell-13-output-1.png" width="566" height="389"></p>
+</div>
+</div>
+</section>
 </section>
 </section>
 
